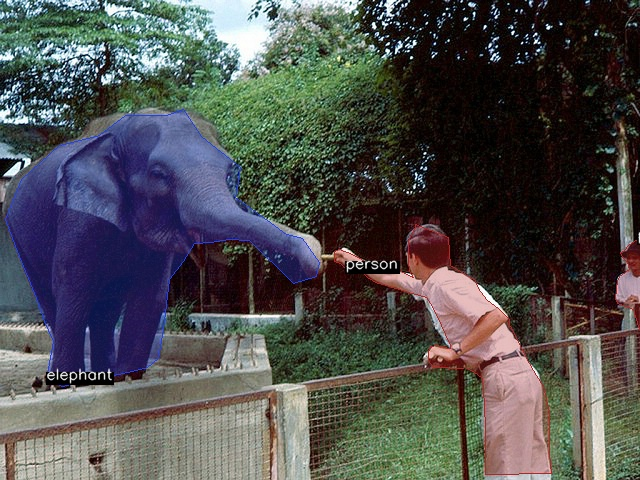
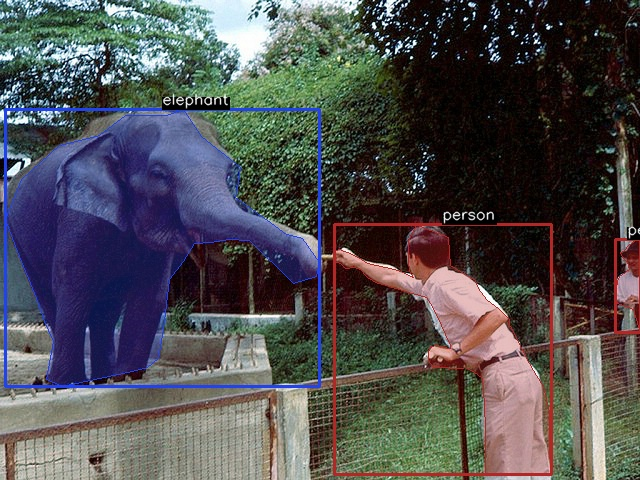
feat(visualize): consistent label positioning with bbox-from-polygon fallback
- Compute bbox from polygon axis-aligned bounds when bbox is None
  (YOLO/LabelMe/COCO segmentation data often lacks explicit bbox)
- Change label anchor from bbox top-left to top-center for visual consistency
- Add edge flip: when text extends above image top, flip label below bbox
- Update showcase images with new label positioning

Changed region(s): [[0.0, 0.1875, 0.875, 1.0], [0.9375, 0.4688, 1.0, 0.6875], [0.9688, 0.6875, 1.0, 0.7188]]

diff --git a/dataflow/visualize/base.py b/dataflow/visualize/base.py
@@ -448,11 +448,15 @@ class BaseVisualizer(ABC):
             f"class_name={render_ann.class_name}, color={color}"
         )
 
-        # Determine label position (prefer bbox, fall back to polygon first point)
+        # Determine label position (top-center of bbox;
+        # fall back to polygon first point only if no bbox could be computed)
         label_pos = None
+        label_bbox = None
         if render_ann.bbox is not None:
             x1, y1, x2, y2 = render_ann.bbox
-            label_pos = (x1, y1 - self.config["text_padding"])
+            label_bbox = (x1, y1, x2, y2)
+            cx = x1 + (x2 - x1) // 2
+            label_pos = (cx, y1 - self.config["text_padding"])
 
         if render_ann.bbox is not None:
             self._draw_bbox(image, render_ann.bbox, color)
@@ -466,7 +470,9 @@ class BaseVisualizer(ABC):
             self._draw_rle_mask(image, render_ann.rle, color)
 
         if label_pos is not None:
-            self._draw_text(image, render_ann.class_name, label_pos, color)
+            self._draw_text(
+                image, render_ann.class_name, label_pos, color, bbox=label_bbox
+            )
 
     def _draw_bbox(
         self,
@@ -546,11 +552,13 @@ class BaseVisualizer(ABC):
         text: str,
         position: Tuple[int, int],
         color: Tuple[int, int, int],
+        bbox: Optional[Tuple[int, int, int, int]] = None,
     ) -> None:
         """Draw text label.
 
         Args:
-            position: (x, y) baseline position for the text.
+            position: (x, y) baseline position for the text (top-center of bbox).
+            bbox: Optional bbox (x1, y1, x2, y2) for edge-flip logic.
         """
         x, y = int(position[0]), int(position[1])
 
@@ -567,21 +575,27 @@ class BaseVisualizer(ABC):
 
         img_height, img_width = image.shape[:2]
 
+        # Edge flip: if text extends above image top, flip below bbox
+        text_top = y - text_height + baseline
+        if bbox is not None and text_top < 0:
+            _, _, _, y2 = bbox
+            y = y2 + self.config["text_padding"] + text_height
+
         # Background rectangle: covers from text top (y - text_height + baseline)
         # to text bottom (y + baseline)
         x1 = x
         y1 = y - text_height + baseline
         x2 = x + text_width
-        y2 = y + baseline
+        y2_rect = y + baseline
 
         x1 = max(0, min(x1, img_width - 1))
         y1 = max(0, min(y1, img_height - 1))
         x2 = max(0, min(x2, img_width - 1))
-        y2 = max(0, min(y2, img_height - 1))
+        y2_rect = max(0, min(y2_rect, img_height - 1))
 
-        if x1 < x2 and y1 < y2:
+        if x1 < x2 and y1 < y2_rect:
             try:
-                cv2.rectangle(image, (x1, y1), (x2, y2), (0, 0, 0), -1)
+                cv2.rectangle(image, (x1, y1), (x2, y2_rect), (0, 0, 0), -1)
             except Exception as e:
                 self.logger.warning(f"Failed to draw text background: {e}")
 

diff --git a/dataflow/visualize/coco_visualizer.py b/dataflow/visualize/coco_visualizer.py
@@ -84,6 +84,12 @@ class COCOVisualizer(BaseVisualizer):
                         for x, y in obj.segmentation.points
                     ]
 
+            # Bbox from polygon fallback: compute axis-aligned bounds
+            if render_ann.bbox is None and render_ann.polygon:
+                xs = [p[0] for p in render_ann.polygon]
+                ys = [p[1] for p in render_ann.polygon]
+                render_ann.bbox = (min(xs), min(ys), max(xs), max(ys))
+
             render_annotations.append(render_ann)
 
         return RenderData(

diff --git a/dataflow/visualize/labelme_visualizer.py b/dataflow/visualize/labelme_visualizer.py
@@ -82,6 +82,12 @@ class LabelMeVisualizer(BaseVisualizer):
                     for x, y in obj.segmentation.points
                 ]
 
+            # Bbox from polygon fallback: compute axis-aligned bounds
+            if render_ann.bbox is None and render_ann.polygon:
+                xs = [p[0] for p in render_ann.polygon]
+                ys = [p[1] for p in render_ann.polygon]
+                render_ann.bbox = (min(xs), min(ys), max(xs), max(ys))
+
             render_annotations.append(render_ann)
 
         return RenderData(

diff --git a/dataflow/visualize/yolo_visualizer.py b/dataflow/visualize/yolo_visualizer.py
@@ -90,6 +90,12 @@ class YOLOVisualizer(BaseVisualizer):
                     for x, y in obj.segmentation.points
                 ]
 
+            # Bbox from polygon fallback: compute axis-aligned bounds
+            if render_ann.bbox is None and render_ann.polygon:
+                xs = [p[0] for p in render_ann.polygon]
+                ys = [p[1] for p in render_ann.polygon]
+                render_ann.bbox = (min(xs), min(ys), max(xs), max(ys))
+
             render_annotations.append(render_ann)
 
         return RenderData(
